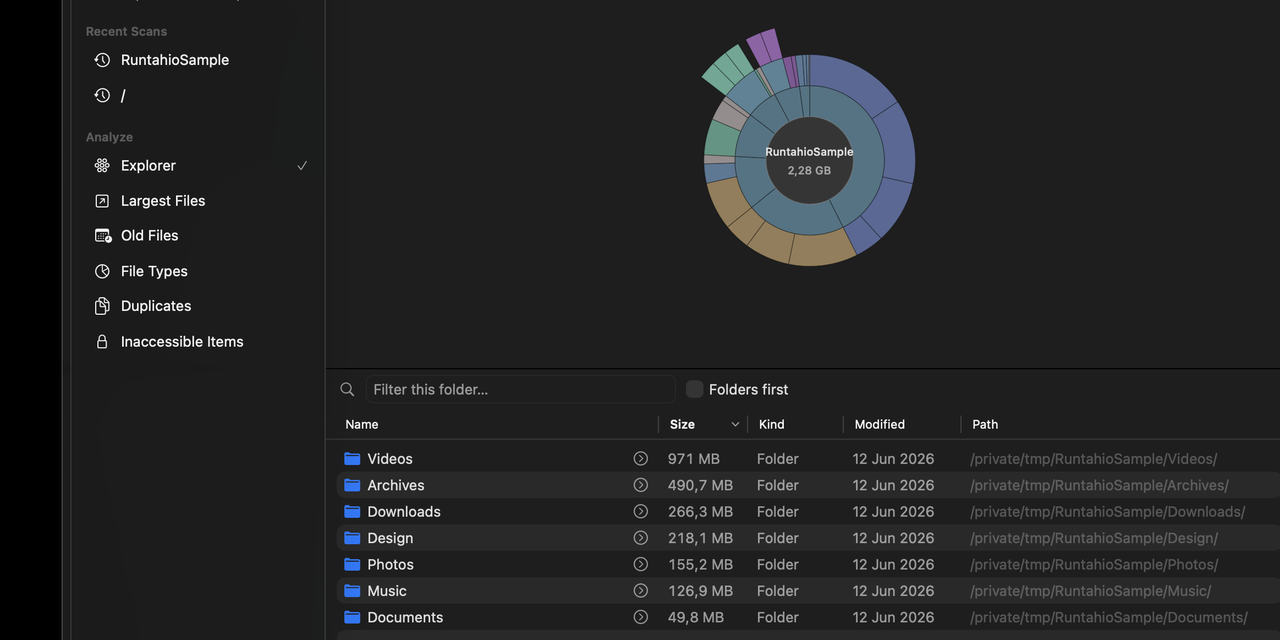
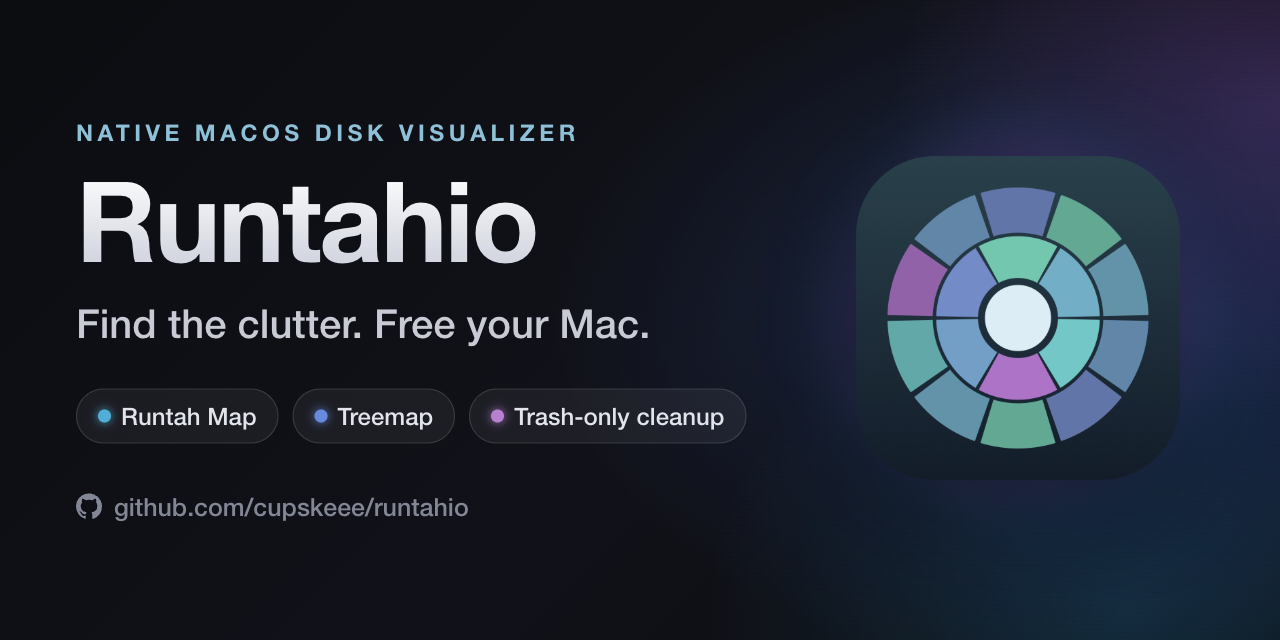
Redesign social preview as a branded repo card
Replace the screenshot crop with a 1280x640 card: app icon + bloom glow,
wordmark, tagline, and feature pills on the dark brand palette, with all
content inside GitHub's 40px safe margin. Ignore the Playwright scratch dir.

diff --git a/docs/images/README.md b/docs/images/README.md
@@ -27,6 +27,10 @@ Drop screenshots/GIFs here and reference them from the root `README.md`. Suggest
 
 ## Social preview
 
-GitHub's link-unfurl image (Open Graph) is **not** set by these files — upload a 1280×640
-image under **Settings → General → Social preview** (web UI only; there's no REST API for
-it). A cropped Runtah Map on a dark background makes a good one.
+**`social-preview.png`** (1280×640) is a ready-made repo card — the app icon, wordmark,
+tagline, and feature pills on a dark brand background, with all content inside GitHub's
+recommended 40px safe margin. Upload it under **Settings → General → Social preview**
+(web UI only; there's no REST API for it).
+
+It's generated from an HTML template rendered headlessly; to tweak it, re-render the card
+at 1280×640 and re-export here.